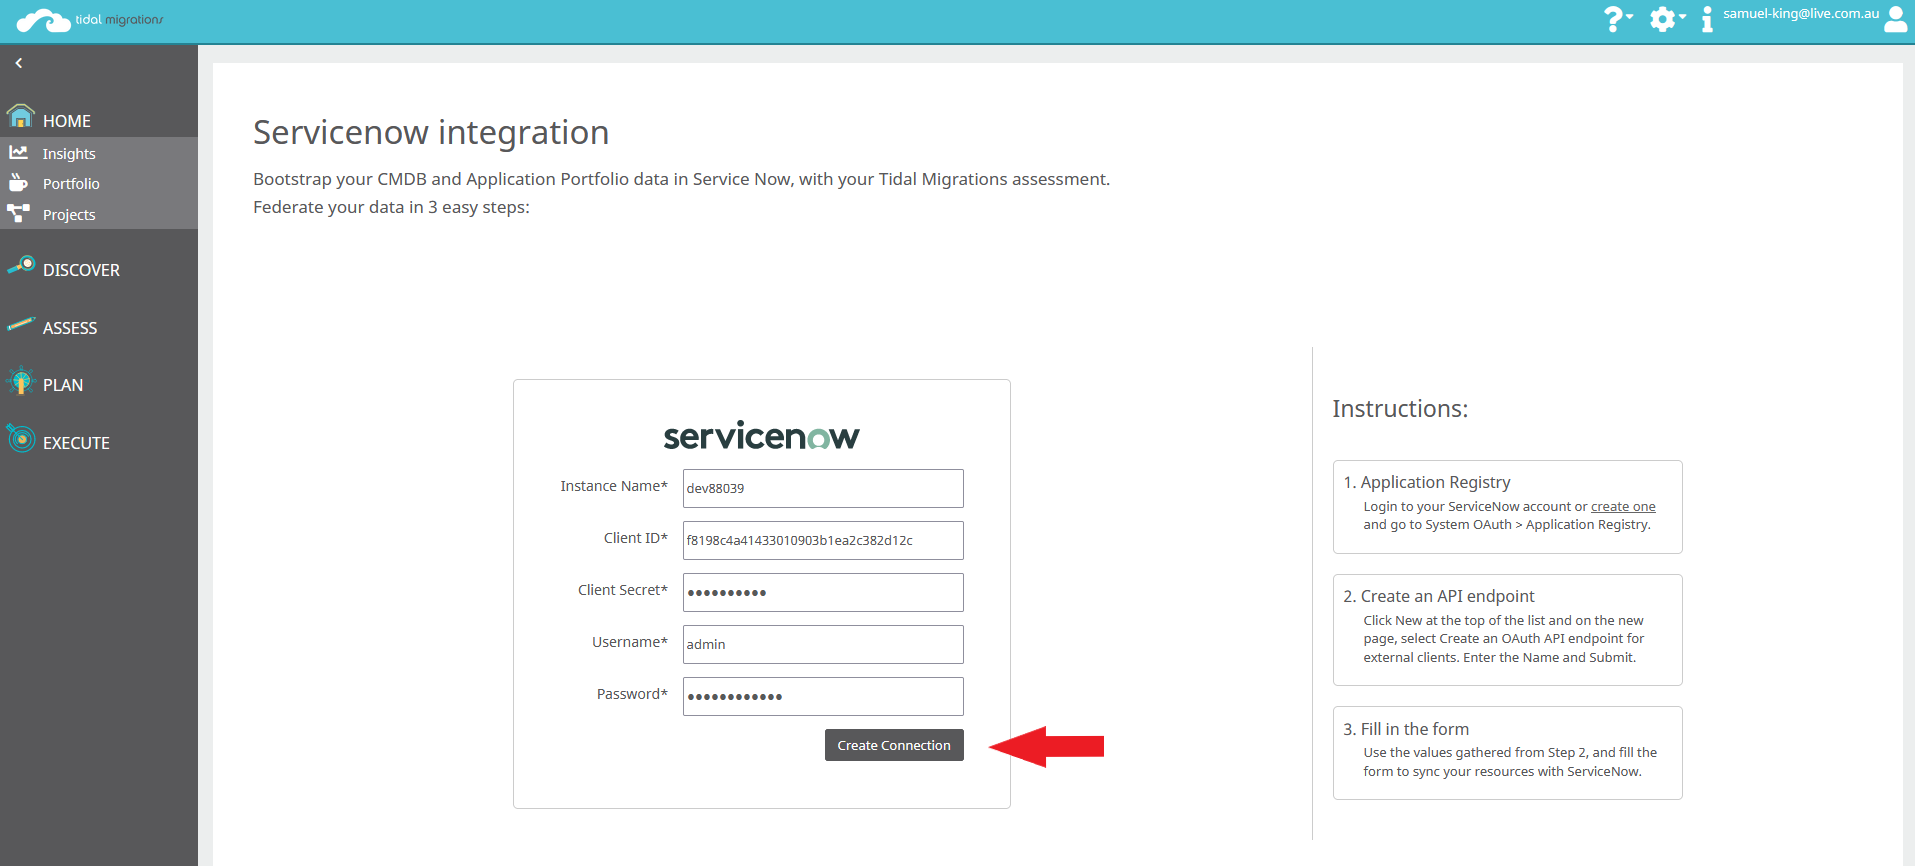
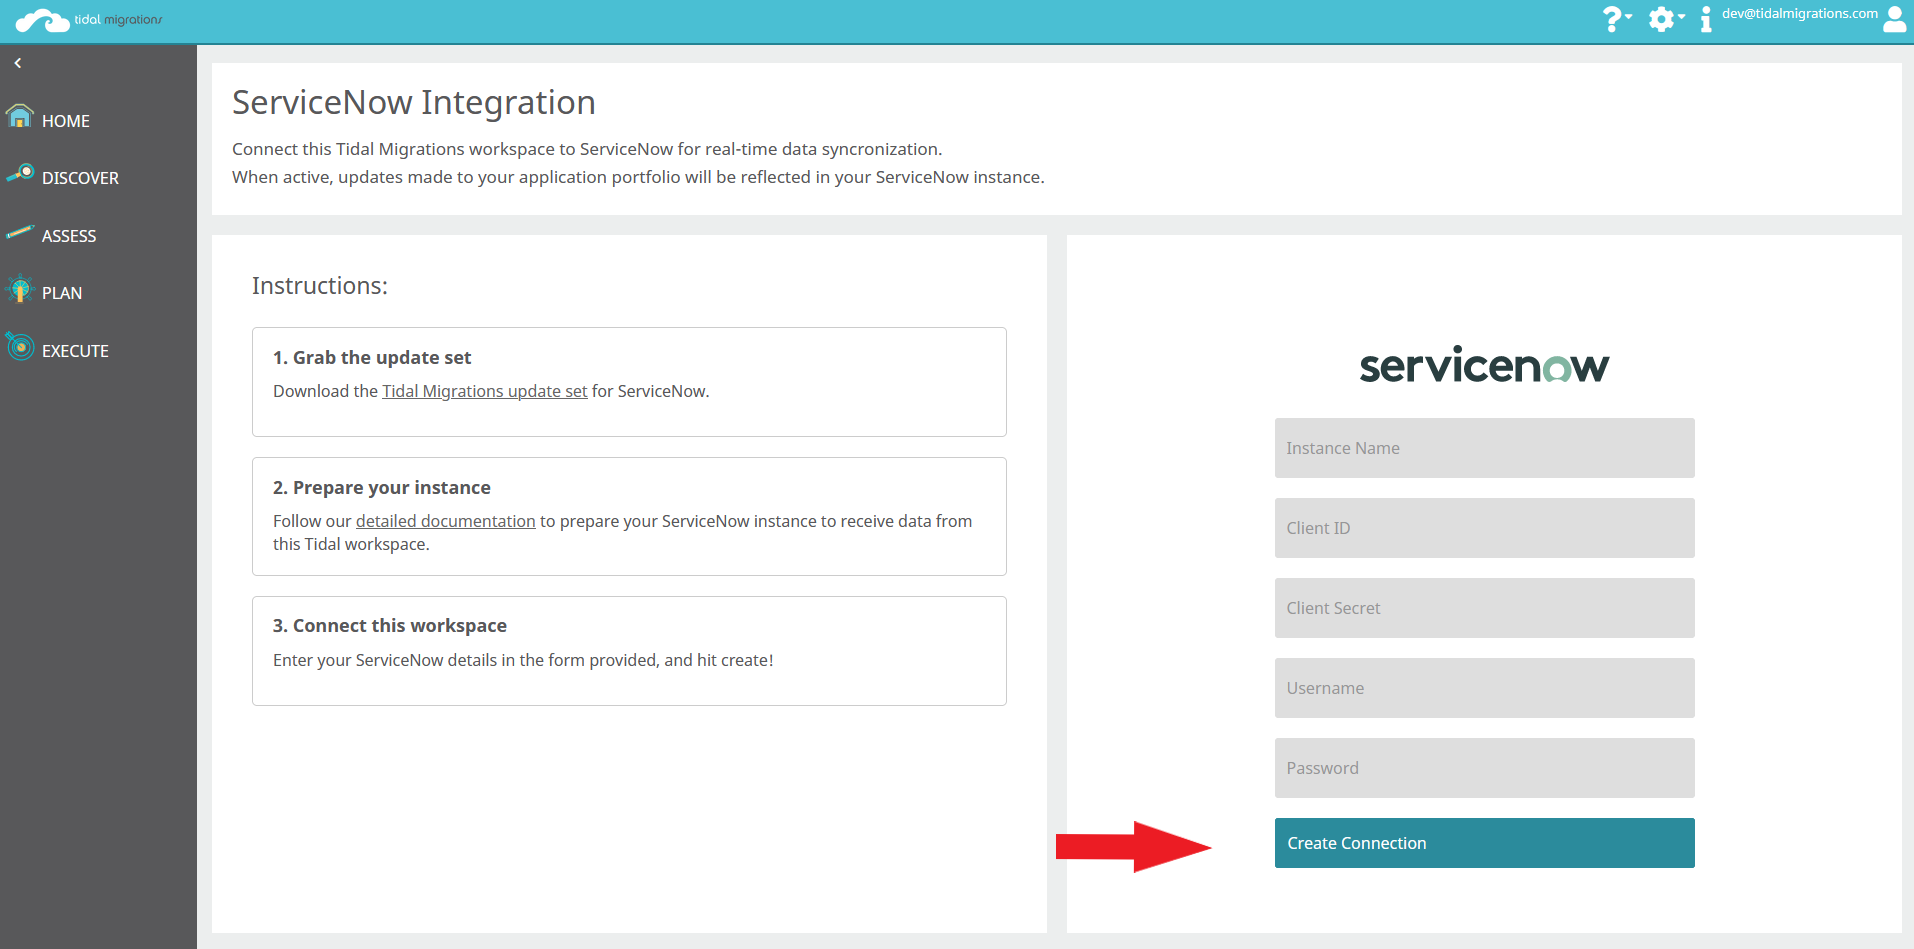
Updated steps and images referring to old UI

diff --git a/pages/user guides/integrating_with_servicenow.md b/pages/user guides/integrating_with_servicenow.md
@@ -96,17 +96,13 @@ In order for your Tidal Migrations workspace to communicate with your ServiceNow
 
   Note: The username and password here are for your ServiceNow instance. If you don't know them, go to the ServiceNow developer page and find 'Manage instance password'. 
 
-- Hit 'Create Connection' to connect this workspace to your ServiceNow instance.
+- Hit 'Create Connection' to connect this workspace to your ServiceNow instance. This action will automatically push all of your current apps, servers and databases over to your ServiceNow instance.
 
   {% include image.html file="integrate-tidal-step1.png" %}
 
-- Once the connection has been created, hit 'Sync' to send your workspace data to ServiceNow!
-
-  {% include image.html file="integrate-tidal-step2.png" %}
-
 - Return to ServiceNow and find your data under the Tidal Migrations -> 'Applications' 'Databases' and 'Servers' tables.
 
-  {% include image.html file="integrate-tidal-step3.png" %}
+  {% include image.html file="integrate-tidal-step2.png" %}
 
 
 
